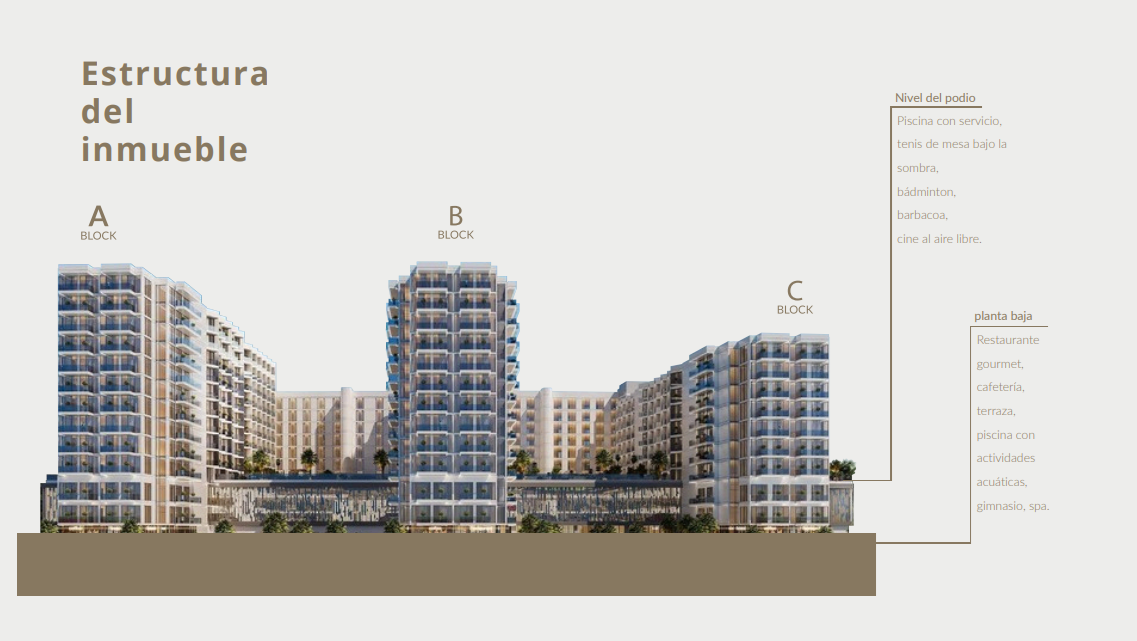
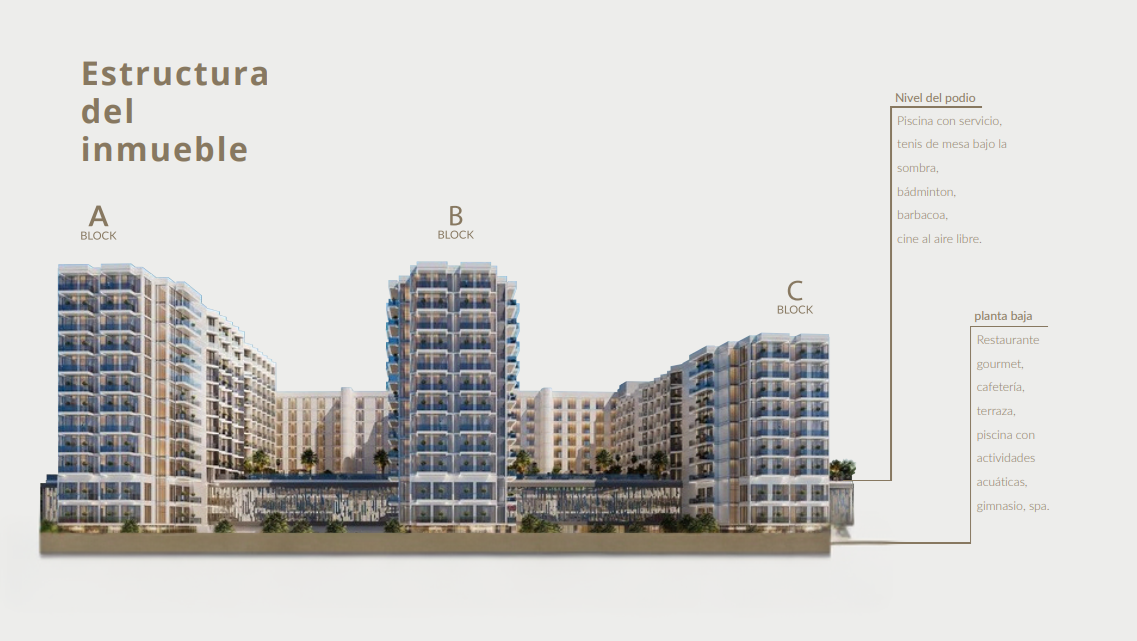
Summary of All 8 Corrections Completed ✅
All requested changes have been successfully implemented in the development branch. Here's what was modified:

  Task 1: Investment Opportunity Text ✅

  - Changed label from "Rendimientos brutos de alquiler" → "Rendimientos"
  - Updated description: "Yields actuales..." → "Rendimientos actuales..."
  - Updated benefit: "Rendimientos brutos del 7-8% en alquileres" → "Márgenes de beneficio operativo cercanos al 8%"
  - English: "7-8% gross rental yields" → "Operating profit margins close to 8%"

  Task 2: Development Structure ✅

  - Changed description: "Una torre icónica de 24 plantas..." → "Tres torres icónicas..."
  - English: "An iconic 24-story tower..." → "Three iconic towers..."
  - Dynamic images: Spanish uses collage_estructura_es.png, English uses collage_estructura_en.png

  Task 3: Specifications Cards ✅

  - Added SqFt to m² conversions for all apartment types:
    - Studios: "27.87-42.9 m² (300-462 SqFt)"
    - 1 Bedroom: "55.74-78.97 m² (600-850 SqFt)"
    - 2 Bedrooms: "102.19-111.48 m² (1100-1200 SqFt)"
    - 3 Bedrooms: "157.94-167.22 m² (1700-1800 SqFt)"
  - Updated English prices (EUR → GBP conversion at 0.86):
    - Studios: £146,200
    - 1 Bedroom: £245,100
    - 2 Bedrooms: £387,000
    - 3 Bedrooms: £559,000

  Task 4: Playa Viva Section Buttons ✅

  - Spanish translations:
    - "Coastal Community" → "Comunidad Costera"
    - "Inspired Design" → "Diseño Inspirado"
    - "Effortless Luxury" → "Lujo sin Esfuerzo"
[…]

Changed region(s): [[0.0, 0.8112, 0.8004, 0.936]]

diff --git a/app/page.tsx b/app/page.tsx
@@ -380,10 +380,10 @@ export default function PlayaVivaLanding() {
           title: "Estructura del Desarrollo",
           tagline: "Arquitectura contemporánea frente al mar",
           description: [
-            "Una torre icónica de 24 plantas que combina elegancia atemporal con el entorno costero de Al Marjan Island.",
+            "Tres torres icónicas que combinan elegancia atemporal con el entorno costero de Al Marjan Island.",
             "Diseño arquitectónico que maximiza vistas panorámicas al Golfo Arábigo desde cada residencia."
           ],
-          image: "/assets/imagenes/building-structure.webp",
+          image: "/assets/imagenes/collage_estructura_es.png",
         },
         // FEATURES_2: Specifications
         specifications: {
@@ -392,25 +392,25 @@ export default function PlayaVivaLanding() {
           cards: [
             {
               title: "Studios",
-              size: "37-45 m²",
+              size: "27.87-42.9 m² (300-462 SqFt)",
               price: "Desde €170,000",
               features: "Cocina integrada, baño premium, balcón privado"
             },
             {
               title: "1 Dormitorio",
-              size: "60-75 m²",
+              size: "55.74-78.97 m² (600-850 SqFt)",
               price: "Desde €285,000",
               features: "Suite en-suite, vestidor, zona de lavandería"
             },
             {
               title: "2 Dormitorios",
-              size: "95-110 m²",
+              size: "102.19-111.48 m² (1100-1200 SqFt)",
               price: "Desde €450,000",
               features: "Dos suites, cocina isla, balcones duales"
             },
             {
               title: "3 Dormitorios",
-              size: "145-165 m²",
+              size: "157.94-167.22 m² (1700-1800 SqFt)",
               price: "Desde €650,000",
               features: "Master suite, cuarto de servicio, terraza 25m²"
             }
@@ -422,22 +422,22 @@ export default function PlayaVivaLanding() {
           tagline: "Cuatro perspectivas de vida frente al mar",
           tabs: [
             {
-              label: "Coastal Community",
+              label: "Comunidad Costera",
               image: "/assets/imagenes/view1.webp",
               description: "Comunidad exclusiva en primera línea de playa"
             },
             {
-              label: "Inspired Design",
+              label: "Diseño Inspirado",
               image: "/assets/imagenes/view2.jpg",
               description: "Arquitectura que captura la esencia del Mediterráneo"
             },
             {
-              label: "Effortless Luxury",
+              label: "Lujo sin Esfuerzo",
               image: "/assets/imagenes/view3.webp",
               description: "Lujo sin esfuerzo en cada detalle"
             },
             {
-              label: "Beach Access",
+              label: "Acceso a Playa",
               image: "/assets/imagenes/beach.webp",
               description: "Acceso directo a playas de arena blanca"
             }
@@ -465,7 +465,7 @@ export default function PlayaVivaLanding() {
             },
             {
               title: "Piscinas Exteriores",
-              image: "/assets/imagenes/foto galeria 11.webp",
+              image: "/assets/imagenes/Piscina_mejorada.png",
               description: "Piscinas infinity con vistas al mar Arábigo"
             },
             {
@@ -484,7 +484,7 @@ export default function PlayaVivaLanding() {
       },
       apartments: {
         title: "Colección de Apartamentos",
-        subtitle: "Espacios diseñados para cada etapa de inversión",
+        subtitle: "Espacios diseñados para cada perfil inversor",
         description:
           "Desde estudios boutique hasta áticos de tres dormitorios, cada tipología ofrece vistas al mar, entrega llave en mano y acceso al plan de pago del 1% mensual.",
         note: "Los precios son estimaciones orientativas basadas en el tipo de cambio vigente y pueden variar sin previo aviso.",
@@ -677,8 +677,8 @@ export default function PlayaVivaLanding() {
           {
             icon: TrendingUp,
             value: "7-8%",
-            label: "Rendimientos brutos de alquiler",
-            description: "Yields actuales en Al Marjan Island",
+            label: "Rendimientos",
+            description: "Rendimientos actuales en Al Marjan Island",
           },
           {
             icon: TrendingUp,
@@ -700,7 +700,7 @@ export default function PlayaVivaLanding() {
           },
         ],
         benefits: [
-          "Rendimientos brutos del 7-8% en alquileres",
+          "Márgenes de beneficio operativo cercanos al 8%",
           "Proximidad al Wynn Resort ($5.1B)",
           "Entrega totalmente amueblado y con Smart Home",
           "Potencial de revalorización post-apertura casino",
@@ -859,10 +859,10 @@ export default function PlayaVivaLanding() {
           title: "Development Structure",
           tagline: "Contemporary architecture facing the sea",
           description: [
-            "An iconic 24-story tower combining timeless elegance with the coastal setting of Al Marjan Island.",
+            "Three iconic towers combining timeless elegance with the coastal setting of Al Marjan Island.",
             "Architectural design that maximizes panoramic views of the Arabian Gulf from every residence."
           ],
-          image: "/assets/imagenes/building-structure.webp",
+          image: "/assets/imagenes/collage_estructura_en.png",
         },
         // FEATURES_2: Specifications
         specifications: {
@@ -871,26 +871,26 @@ export default function PlayaVivaLanding() {
           cards: [
             {
               title: "Studios",
-              size: "37-45 m²",
-              price: "From £150,000",
+              size: "27.87-42.9 m² (300-462 SqFt)",
+              price: "From £146,200",
               features: "Integrated kitchen, premium bathroom, private balcony"
             },
             {
               title: "1 Bedroom",
-              size: "60-75 m²",
-              price: "From £250,000",
+              size: "55.74-78.97 m² (600-850 SqFt)",
+              price: "From £245,100",
               features: "En-suite bedroom, walk-in closet, laundry area"
             },
             {
               title: "2 Bedrooms",
-              size: "95-110 m²",
-              price: "From £400,000",
+              size: "102.19-111.48 m² (1100-1200 SqFt)",
+              price: "From £387,000",
               features: "Two suites, island kitchen, dual balconies"
             },
             {
               title: "3 Bedrooms",
-              size: "145-165 m²",
-              price: "From £575,000",
+              size: "157.94-167.22 m² (1700-1800 SqFt)",
+              price: "From £559,000",
               features: "Master suite, maid's room, 25m² terrace"
             }
           ]
@@ -944,7 +944,7 @@ export default function PlayaVivaLanding() {
             },
             {
               title: "Outdoor Swimming Pools",
-              image: "/assets/imagenes/foto galeria 11.webp",
+              image: "/assets/imagenes/Piscina_mejorada.png",
               description: "Infinity pools with Arabian Sea views"
             },
             {
@@ -963,7 +963,7 @@ export default function PlayaVivaLanding() {
       },
       apartments: {
         title: "Apartment Collection",
-        subtitle: "Layouts tailored to every investment thesis",
+        subtitle: "Layouts tailored to every investment profile",
         description:
           "From boutique studios to three-bedroom residences, each typology delivers sea views, turnkey interiors, and access to the 1% monthly payment plan.",
         note: "Prices are indicative estimates based on prevailing FX and may adjust at the time of reservation.",
@@ -1179,7 +1179,7 @@ export default function PlayaVivaLanding() {
           },
         ],
         benefits: [
-          "7-8% gross rental yields",
+          "Operating profit margins close to 8%",
           "Proximity to Wynn Resort ($5.1B)",
           "Fully furnished delivery with Smart Home",
           "Post-casino opening appreciation potential",
@@ -3418,10 +3418,10 @@ const orchestrateLeadAutomation = async (
                         <Bot className="h-5 w-5" />
                       </div>
                       <div>
-                        <p className="text-sm font-semibold text-cream-light mb-1">
+                        <p className="text-sm font-semibold text-white mb-1">
                           {altchaTitle}
                         </p>
-                        <p className="text-xs text-cream-light/75 leading-relaxed">
+                        <p className="text-xs text-white/75 leading-relaxed">
                           {altchaCopy}
                         </p>
                       </div>
@@ -3433,10 +3433,10 @@ const orchestrateLeadAutomation = async (
                         <ShieldCheck className="h-5 w-5" />
                       </div>
                       <div>
-                        <p className="text-sm font-semibold text-cream-light mb-1">
+                        <p className="text-sm font-semibold text-white mb-1">
                           {consentTitle}
                         </p>
-                        <p className="text-xs text-cream-light/75 leading-relaxed">
+                        <p className="text-xs text-white/75 leading-relaxed">
                           {consentCopy}
                         </p>
                       </div>
